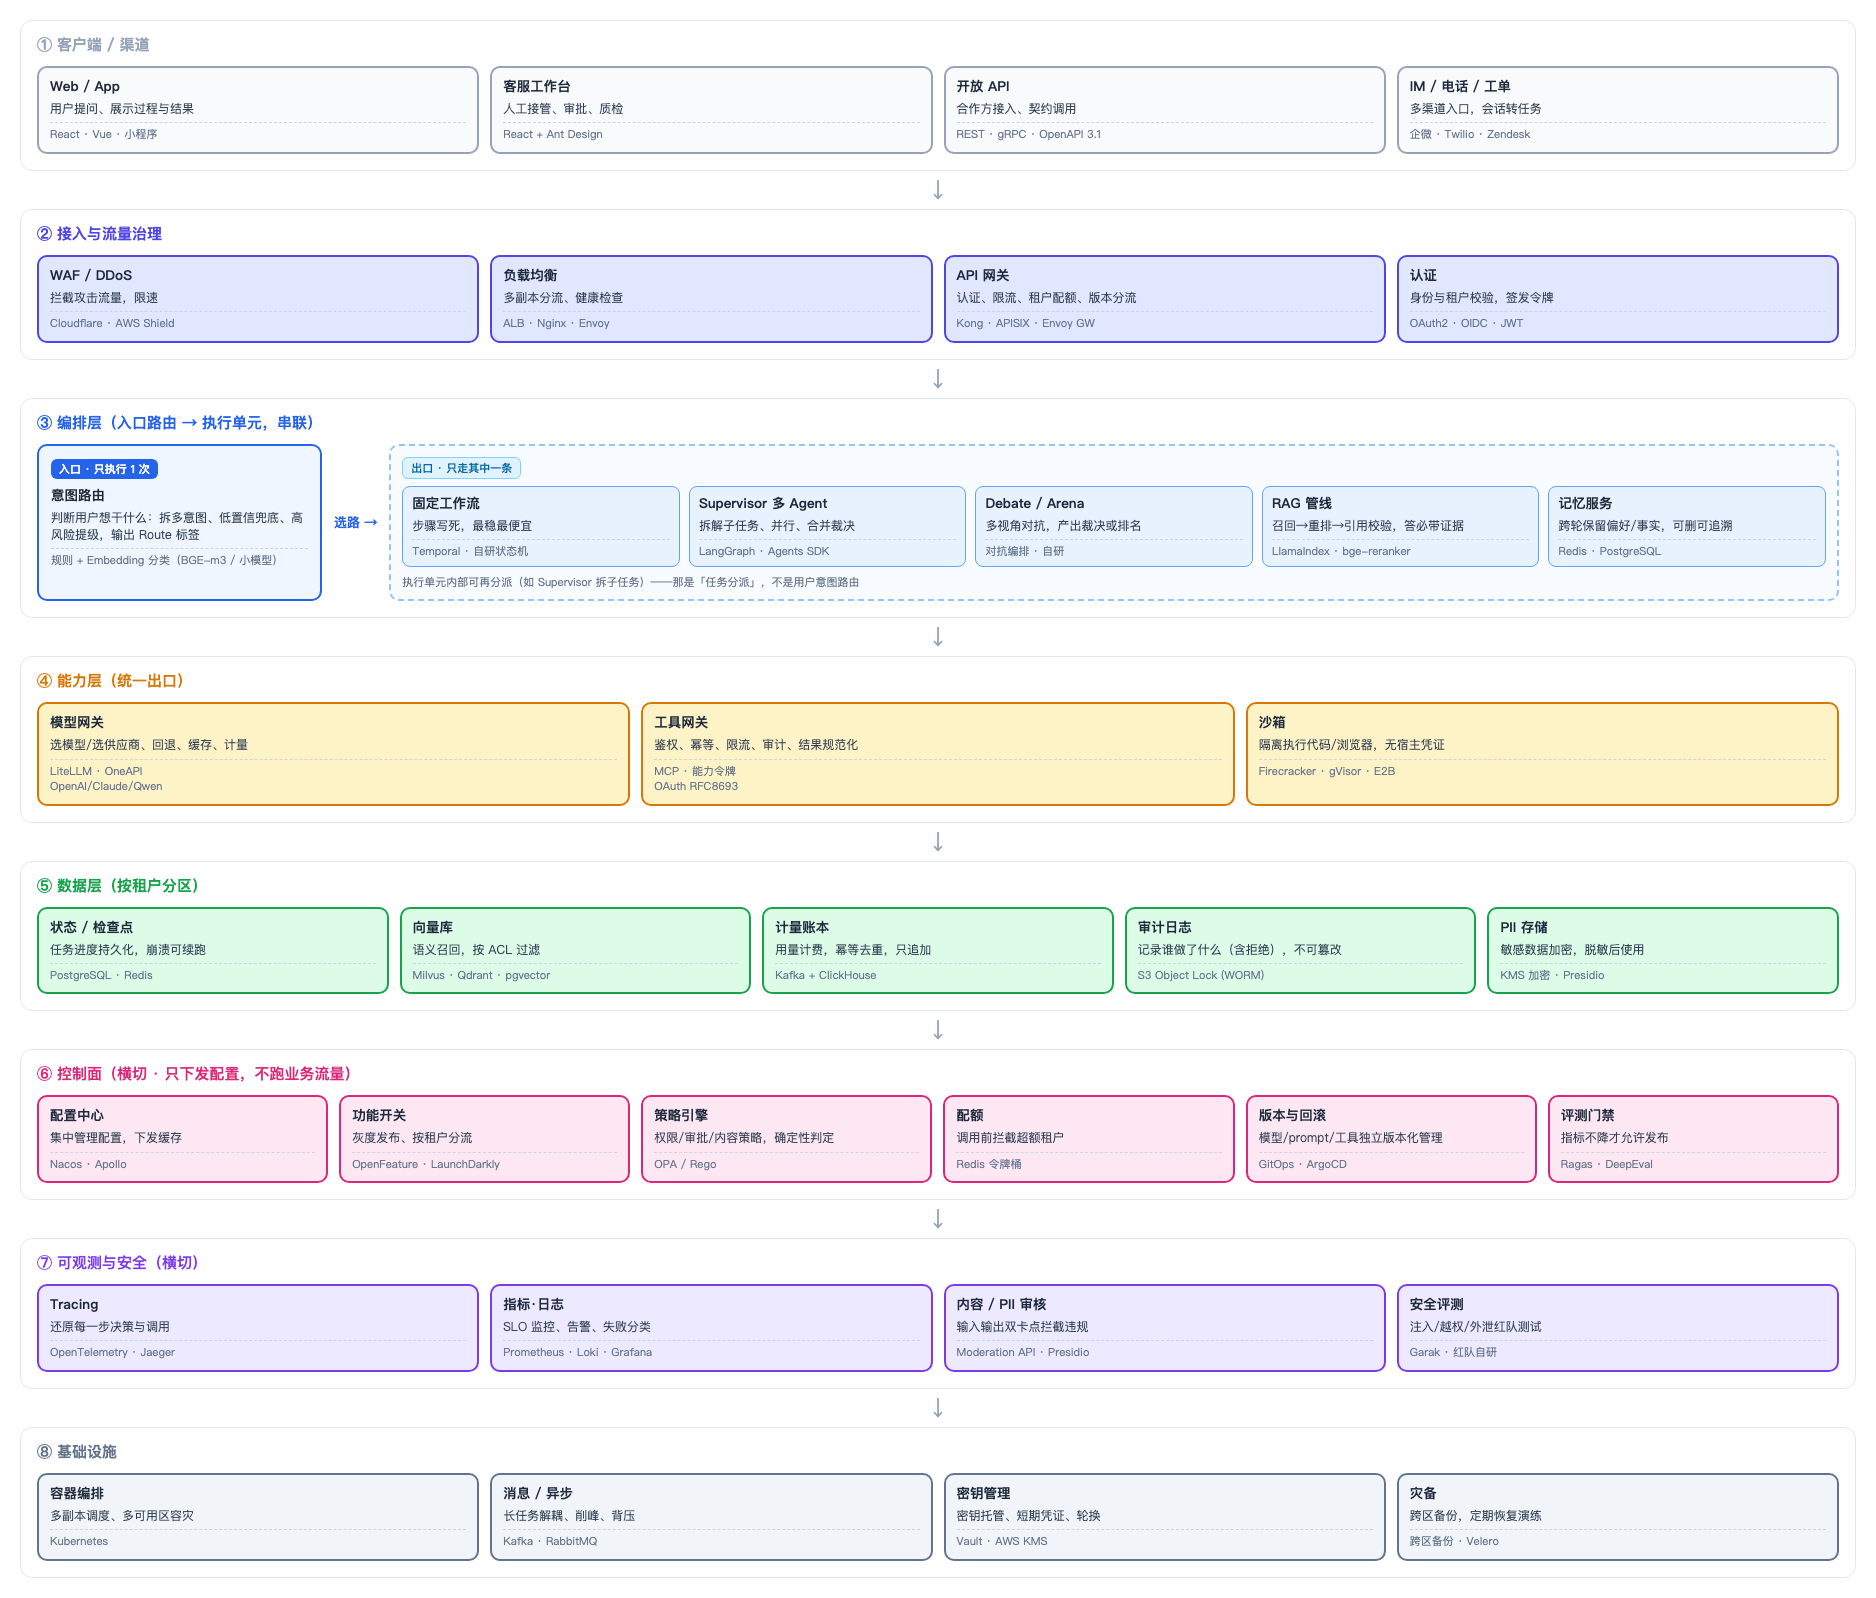
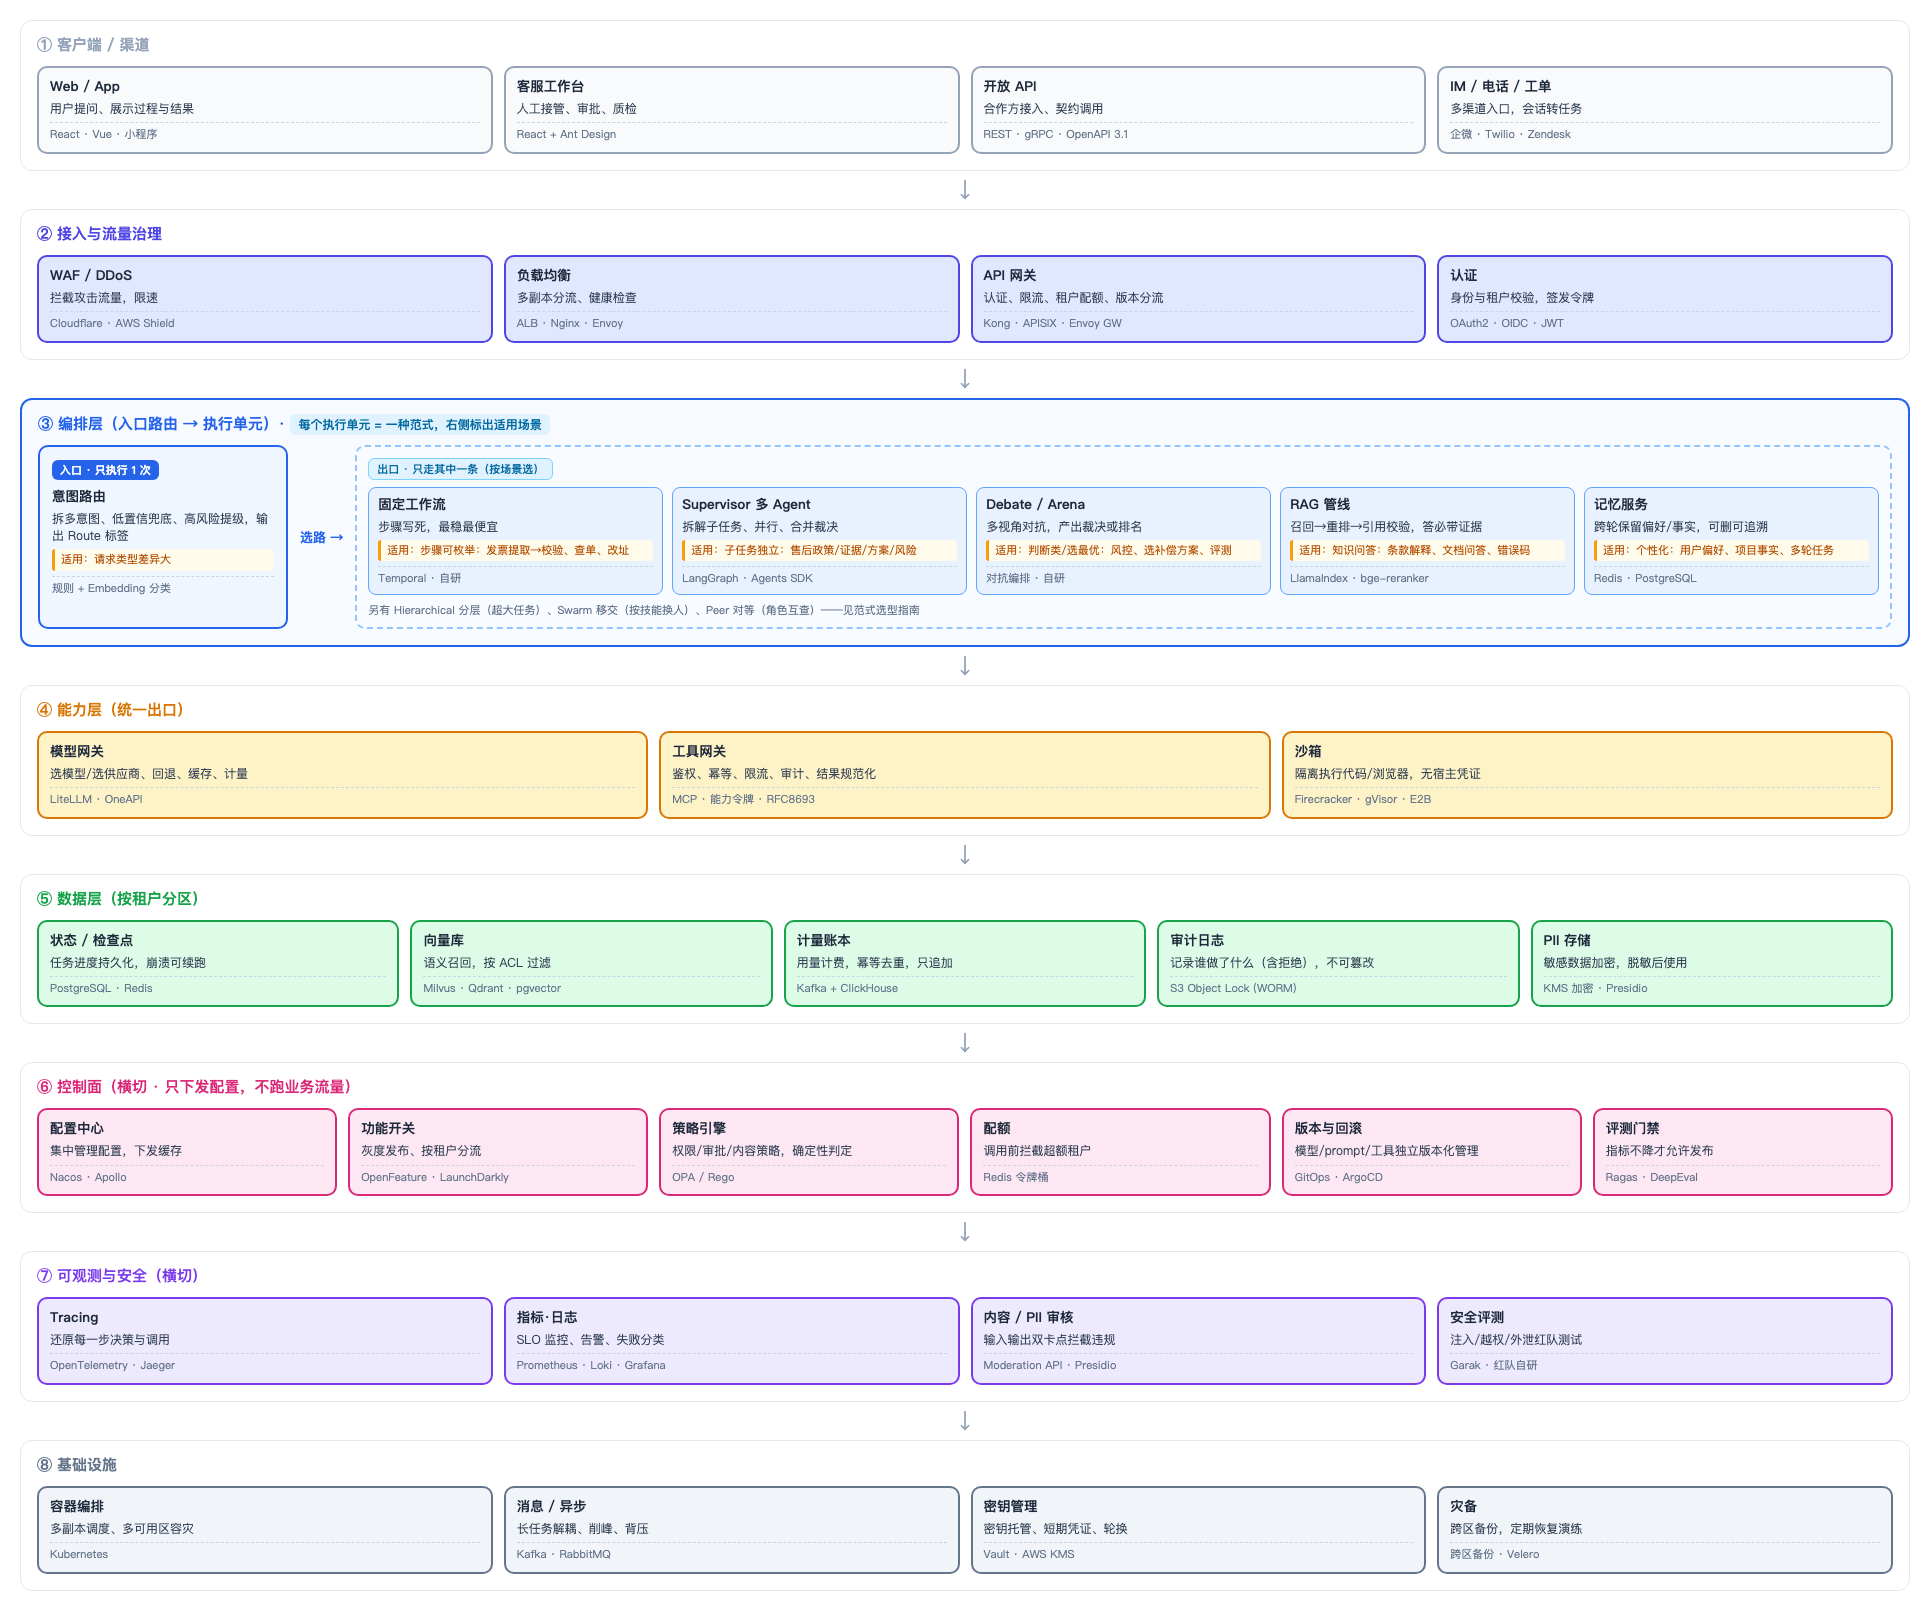
docs: 企业级架构图叠加范式适用场景标注
在用户指出的那张架构图（图 3）上，为 ③ 编排层每个执行单元
补充「适用场景」，使其直接体现范式选型：
- 固定工作流 / Supervisor / Debate-Arena / RAG / 记忆 各自适用业务
- 意图路由标注适用前提；底部指向其余三种拓扑

diff --git a/offline/practice/enterprise-architecture.html b/offline/practice/enterprise-architecture.html
@@ -167,7 +167,7 @@
 <h3 id="每层每模块的职责">每层每模块的职责</h3>
 <p>上面那张图给了技术，这张把<strong>每个模块的职责</strong>也标出来（每格三行：模块 / 职责 / 技术），可以对着它做架构评审或分工。</p>
 <p><img src="../assets/images/enterprise-architecture-detail.png" alt="" loading="lazy"></p>
-<p class="diagram-caption"><strong>图 3</strong> · 每格三行：模块名 · 职责 · 技术选型；③ 编排层保持「入口路由 → 执行单元」串联</p>
+<p class="diagram-caption"><strong>图 3</strong> · 每格：模块 · 职责 · 技术；③ 编排层每个执行单元额外标注<b>适用场景</b>（它就是一种范式）</p>
 <h3 id="选型速查表">选型速查表</h3>
 <div class="table-wrap"><table>
 <thead>
